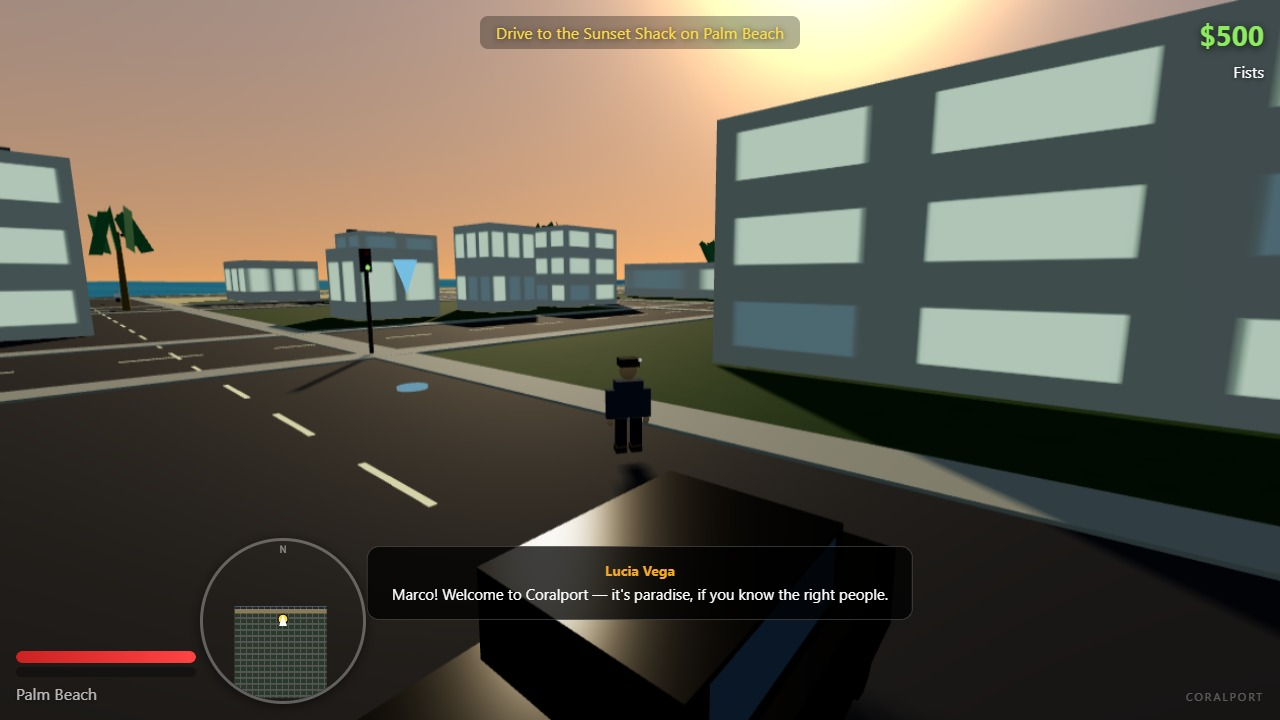
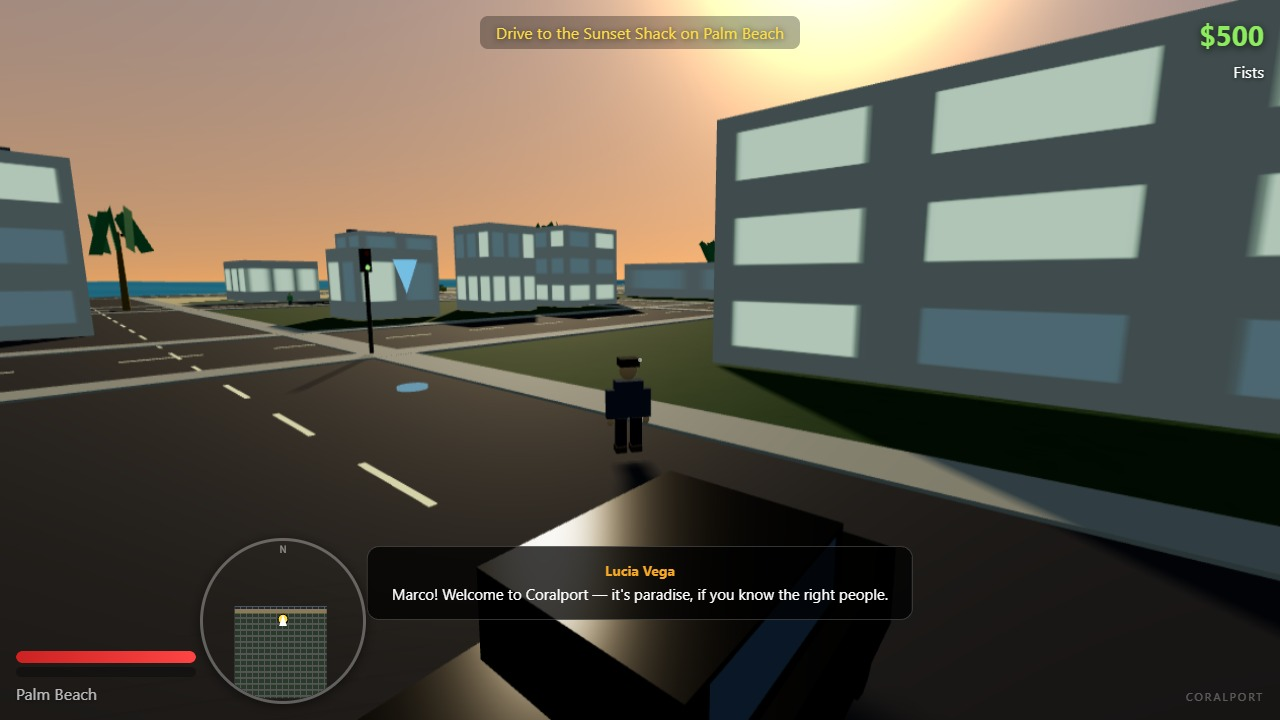
Polish round 3: more traffic, peds, palms, benches, reduced fog
- Increased traffic density from 30 to 45 NPC cars
- Increased pedestrian count from 40 to 60
- Added more palm trees along major boulevards for depth and perspective
- Added 30 bench props scattered around the city
- Reduced fog density from 0.0015 to 0.0008 so distant buildings are visible
- Widened shadow camera from 120 to 150 units for better coverage
- Updated all 4 screenshots with improved scene density

diff --git a/game/src/world/props.js b/game/src/world/props.js
@@ -102,10 +102,31 @@ export function createProps(scene) {
     }
   }
 
+  // More boulevard palms along major horizontal roads
+  for (let z = -HALF + 160; z < HALF; z += CELL * 2) {
+    for (let x = -200; x < 200; x += 20) {
+      const rng = mulberry32(seed++);
+      if (rng() > 0.6) {
+        createPalmTree(scene, x + rng() * 3, z + ROAD_WIDTH / 2 + 2);
+      }
+    }
+  }
+
   // Harbor cranes
   for (let i = 0; i < 4; i++) {
     const rng = mulberry32(seed++);
     createCrane(scene, 220 + i * 50 + rng() * 20, -HALF + 180 + rng() * 40);
+  }
+
+  // Benches and dumpsters near buildings (ground-level detail)
+  const benchMat = new THREE.MeshStandardMaterial({ color: 0x664422, roughness: 0.9 });
+  for (let i = 0; i < 30; i++) {
+    const rng = mulberry32(seed++);
+    const bx = -300 + rng() * 600;
+    const bz = -300 + rng() * 600;
+    const bench = new THREE.Mesh(new THREE.BoxGeometry(1.2, 0.5, 0.4), benchMat);
+    bench.position.set(bx, 0.25, bz);
+    scene.add(bench);
   }
 
   return props;

diff --git a/game/src/world/sky.js b/game/src/world/sky.js
@@ -52,10 +52,10 @@ export function createLighting(scene) {
   sun.position.copy(sunDir.clone().multiplyScalar(200));
   sun.castShadow = true;
   sun.shadow.mapSize.set(2048, 2048);
-  sun.shadow.camera.left = -120;
-  sun.shadow.camera.right = 120;
-  sun.shadow.camera.top = 120;
-  sun.shadow.camera.bottom = -120;
+  sun.shadow.camera.left = -150;
+  sun.shadow.camera.right = 150;
+  sun.shadow.camera.top = 150;
+  sun.shadow.camera.bottom = -150;
   sun.shadow.camera.near = 50;
   sun.shadow.camera.far = 500;
   sun.shadow.bias = -0.001;
@@ -69,7 +69,7 @@ export function createLighting(scene) {
   scene.add(hemi);
 
   // Warm golden-hour fog
-  scene.fog = new THREE.FogExp2(0xd4a574, 0.0015);
+  scene.fog = new THREE.FogExp2(0xd4a574, 0.0008);
 
   return { sun, ambient, hemi, sunDir };
 }

diff --git a/game/src/traffic/trafficSystem.js b/game/src/traffic/trafficSystem.js
@@ -5,7 +5,7 @@ import { createCarModel } from '../vehicles/vehicle.js';
 import { getTrafficState } from '../world/roads.js';
 
 const TRAFFIC_SPEED = 8;
-const TRAFFIC_COUNT = 30;
+const TRAFFIC_COUNT = 45;
 const SPAWN_RADIUS = 180;
 const DESPAWN_RADIUS = 250;
 

diff --git a/game/src/peds/pedestrians.js b/game/src/peds/pedestrians.js
@@ -2,7 +2,7 @@
 import * as THREE from 'three';
 import { HALF, CELL, ROAD_WIDTH, mulberry32 } from '../world/cityLayout.js';
 
-const PED_COUNT = 40;
+const PED_COUNT = 60;
 const PED_SPEED = 2.0;
 const FLEE_SPEED = 7.0;
 const SPAWN_RADIUS = 120;
